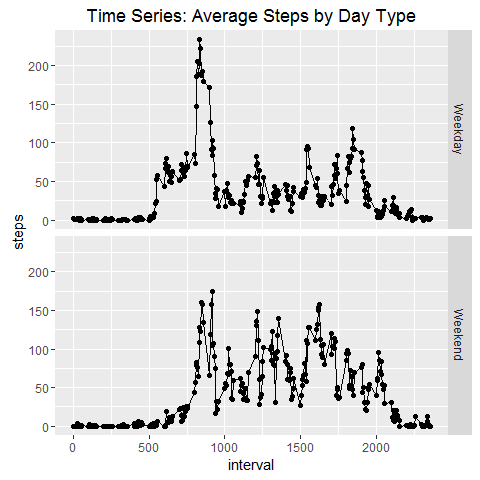
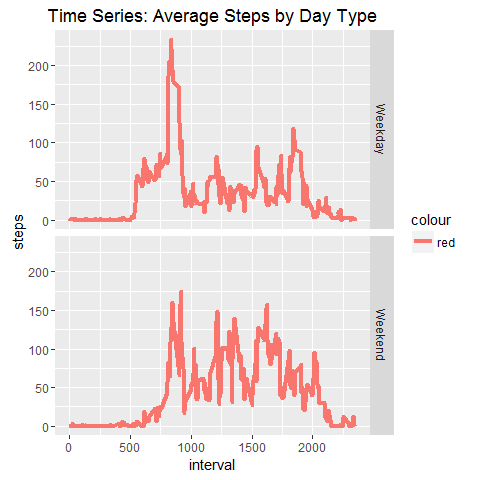
Add files via upload

diff --git a/PA1_Assignment1.html b/PA1_Assignment1.html
@@ -127,15 +127,6 @@ $(document).ready(function () {
 }
 activity.data &lt;- read.csv(&quot;activity.csv&quot;)</code></pre>
 <p>Load Libraries</p>
-<pre class="r"><code>library(dplyr)</code></pre>
-<pre><code>## 
-## Attaching package: 'dplyr'</code></pre>
-<pre><code>## The following objects are masked from 'package:stats':
-## 
-##     filter, lag</code></pre>
-<pre><code>## The following objects are masked from 'package:base':
-## 
-##     intersect, setdiff, setequal, union</code></pre>
 <pre class="r"><code>library(Hmisc)</code></pre>
 <pre><code>## Loading required package: lattice</code></pre>
 <pre><code>## Loading required package: survival</code></pre>
@@ -143,9 +134,6 @@ activity.data &lt;- read.csv(&quot;activity.csv&quot;)</code></pre>
 <pre><code>## Loading required package: ggplot2</code></pre>
 <pre><code>## 
 ## Attaching package: 'Hmisc'</code></pre>
-<pre><code>## The following objects are masked from 'package:dplyr':
-## 
-##     combine, src, summarize</code></pre>
 <pre><code>## The following objects are masked from 'package:base':
 ## 
 ##     format.pval, round.POSIXt, trunc.POSIXt, units</code></pre>
@@ -168,18 +156,13 @@ activity.data &lt;- read.csv(&quot;activity.csv&quot;)</code></pre>
 <div id="what-is-the-average-daily-activity-pattern" class="section level2">
 <h2>What is the average daily activity pattern?</h2>
 <p>Daily Activity Pattern (This plot breaks when knitted)</p>
-<pre class="r"><code>Mean.Interval.Steps &lt;- group_by(activity.data, interval)
-plot(Mean.Interval.Steps$interval, Mean.Interval.Steps$average, type = &quot;l&quot;, col = &quot;blue&quot;, lwd = 2, main = &quot;Time Series: Average Steps&quot;, xlab = &quot;5 Minute Intervals&quot;, ylab = &quot;Average Steps&quot;)</code></pre>
[1 lines of base64/hex data omitted]
+<pre class="r"><code>Mean.Interval.Steps &lt;- aggregate(activity.data$steps, by = list(activity.data$interval), FUN = &quot;mean&quot;, na.rm = TRUE)
+plot(Mean.Interval.Steps$Group.1, Mean.Interval.Steps$x, type = &quot;l&quot;, col = &quot;blue&quot;, lwd = 2, main = &quot;Time Series: Average Steps&quot;, xlab = &quot;5 Minute Intervals&quot;, ylab = &quot;Average Steps&quot;)</code></pre>
[1 lines of base64/hex data omitted]
 <p>Interval with the maximum average of steps</p>
-<pre class="r"><code>max.int &lt;- which.max(Mean.Interval.Steps$steps)
-Mean.Interval.Steps[max.int,&quot;interval&quot;]</code></pre>
-<pre><code>## Source: local data frame [1 x 1]
-## Groups: interval [1]
-## 
-##   interval
-##      (int)
-## 1      615</code></pre>
+<pre class="r"><code>max.int &lt;- which.max(Mean.Interval.Steps$x)
+Mean.Interval.Steps[max.int, &quot;Group.1&quot;]</code></pre>
+<pre><code>## [1] 835</code></pre>
 </div>
 <div id="imputing-missing-values" class="section level2">
 <h2>Imputing missing values</h2>
@@ -206,8 +189,8 @@ Imputed.Activity.Data$steps &lt;- impute(activity.data$steps, fun = mean)</code>
 Imputed.Activity.Data$day.type &lt;- ifelse(Imputed.Activity.Data$Weekday %in% c(&quot;Saturday&quot;, &quot;Sunday&quot;), 'Weekend', 'Weekday')</code></pre>
 <p>Daily Activity Pattern by Day Type</p>
 <pre class="r"><code>Day.Type.Steps &lt;- aggregate(steps ~ interval + day.type, data = Imputed.Activity.Data, mean)
-qplot(interval, steps, data = Day.Type.Steps, facets = day.type ~., main = &quot;Time Series: Average Steps by Day Type&quot;)+geom_line()</code></pre>
[1 lines of base64/hex data omitted]
+qplot(interval, steps, data = Day.Type.Steps, facets = day.type ~., geom = &quot;line&quot;, color = &quot;red&quot;, main = &quot;Time Series: Average Steps by Day Type&quot;) + geom_line(size = 1.5)</code></pre>
[1 lines of base64/hex data omitted]
 </div>
 
 

diff --git a/PA1_Assignment1.md b/PA1_Assignment1.md
@@ -16,27 +16,6 @@ Load Libraries
 
 
 ```r
-library(dplyr)
-```
-
-```
-## 
-## Attaching package: 'dplyr'
-```
-
-```
-## The following objects are masked from 'package:stats':
-## 
-##     filter, lag
-```
-
-```
-## The following objects are masked from 'package:base':
-## 
-##     intersect, setdiff, setequal, union
-```
-
-```r
 library(Hmisc)
 ```
 
@@ -59,12 +38,6 @@ library(Hmisc)
 ```
 ## 
 ## Attaching package: 'Hmisc'
-```
-
-```
-## The following objects are masked from 'package:dplyr':
-## 
-##     combine, src, summarize
 ```
 
 ```
@@ -124,8 +97,8 @@ Daily Activity Pattern
 
 
 ```r
-Mean.Interval.Steps <- group_by(activity.data, interval)
-plot(Mean.Interval.Steps$interval, Mean.Interval.Steps$average, type = "l", col = "blue", lwd = 2, main = "Time Series: Average Steps", xlab = "5 Minute Intervals", ylab = "Average Steps")
+Mean.Interval.Steps <- aggregate(activity.data$steps, by = list(activity.data$interval), FUN = "mean", na.rm = TRUE)
+plot(Mean.Interval.Steps$Group.1, Mean.Interval.Steps$x, type = "l", col = "blue", lwd = 2, main = "Time Series: Average Steps", xlab = "5 Minute Intervals", ylab = "Average Steps")
 ```
 
 ![](PA1_Assignment1_files/figure-html/Interval.Steps-1.png)<!-- -->
@@ -134,17 +107,12 @@ Interval with the maximum average of steps
 
 
 ```r
-max.int <- which.max(Mean.Interval.Steps$steps)
-Mean.Interval.Steps[max.int,"interval"]
+max.int <- which.max(Mean.Interval.Steps$x)
+Mean.Interval.Steps[max.int, "Group.1"]
 ```
 
 ```
-## Source: local data frame [1 x 1]
-## Groups: interval [1]
-## 
-##   interval
-##      (int)
-## 1      615
+## [1] 835
 ```
 
 ## Imputing missing values
@@ -217,7 +185,7 @@ Daily Activity Pattern by Day Type
 
 ```r
 Day.Type.Steps <- aggregate(steps ~ interval + day.type, data = Imputed.Activity.Data, mean)
-qplot(interval, steps, data = Day.Type.Steps, facets = day.type ~., main = "Time Series: Average Steps by Day Type")+geom_line()
+qplot(interval, steps, data = Day.Type.Steps, facets = day.type ~., geom = "line", color = "red", main = "Time Series: Average Steps by Day Type") + geom_line(size = 1.5)
 ```
 
 ![](PA1_Assignment1_files/figure-html/Activity.By.Day.Type-1.png)<!-- -->
